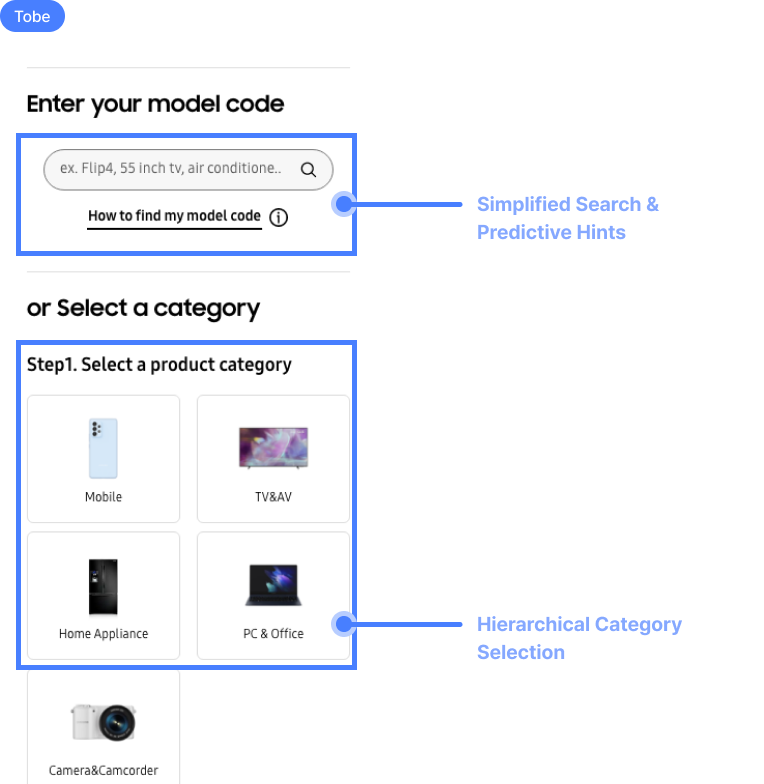
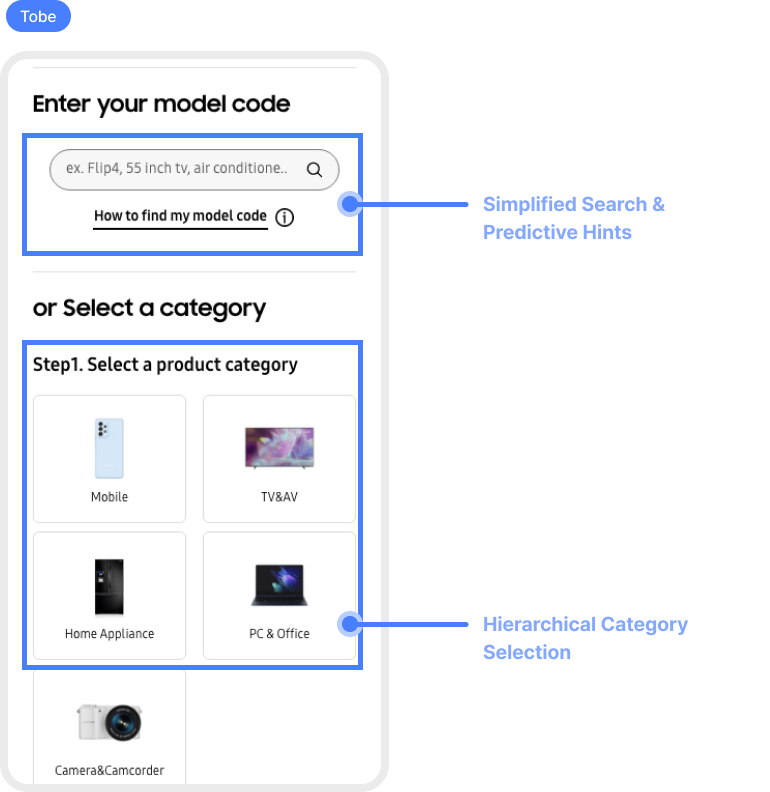
Update Samsung case study: refresh visuals and refine copy
- Replace before/after, pattern search, and to-be flow images with updated renders
- Add new AS-IS diagram
- Tighten case study copy and structure
- Add local-only files to gitignore

diff --git a/projects/samsung-engagement.html b/projects/samsung-engagement.html
@@ -431,15 +431,16 @@
 
     .cs-image-placeholder.has-image {
       border: none;
-      background-color: transparent;
-      aspect-ratio: auto;
+      background-color: var(--color-bg);
+      aspect-ratio: 16 / 9;
     }
 
     .cs-image-placeholder.has-image .cs-placeholder-img {
-      position: static;
-      height: auto;
+      position: absolute;
+      inset: 0;
       width: 100%;
-      object-fit: unset;
+      height: 100%;
+      object-fit: contain;
     }
 
     .cs-image-placeholder.has-image .cs-image-placeholder__label,
@@ -477,14 +478,26 @@
 
     .cs-image-compare {
       display: grid;
-      grid-template-columns: 1fr 1fr;
-      gap: var(--space-4);
+      grid-template-columns: 1fr;
+      gap: var(--space-6);
       margin-top: var(--space-5);
     }
 
     .cs-image-compare .cs-image-placeholder {
       margin-top: 0;
-      aspect-ratio: 4 / 5;
+      aspect-ratio: auto;
+    }
+
+    .cs-image-compare .cs-image-placeholder.has-image {
+      aspect-ratio: auto;
+      padding: 0;
+    }
+
+    .cs-image-compare .cs-image-placeholder.has-image .cs-placeholder-img {
+      position: static;
+      width: 100%;
+      height: auto;
+      object-fit: unset;
     }
 
     .cs-image-compare__tag {
@@ -626,31 +639,13 @@
           <p class="cs-quote__text">"Each one looks almost the same · I can't tell which is mine."</p>
           <span class="cs-quote__source">User research · Manuals &amp; Downloads</span>
         </div>
-        <div class="cs-image-row">
-          <div class="cs-image-placeholder">
-            <img class="cs-placeholder-img" src="../assets/images/samsung-engagement-asis_1.png"
-                 alt="Samsung.com Manuals page — before redesign (landing)"
-                 onload="this.parentElement.classList.add('has-image')"
-                 onerror="this.style.display='none'" />
-            <span class="cs-image-placeholder__label">AS-IS · 01</span>
-            <span class="cs-image-placeholder__sub">기존 Search Samsung Support 랜딩 화면</span>
-          </div>
-          <div class="cs-image-placeholder">
-            <img class="cs-placeholder-img" src="../assets/images/samsung-engagement-asis_2.png"
-                 alt="Samsung.com Manuals page — before redesign (category tabs)"
-                 onload="this.parentElement.classList.add('has-image')"
-                 onerror="this.style.display='none'" />
-            <span class="cs-image-placeholder__label">AS-IS · 02</span>
-            <span class="cs-image-placeholder__sub">Select a Model 화면 · 카테고리 탭 구조</span>
-          </div>
-          <div class="cs-image-placeholder">
-            <img class="cs-placeholder-img" src="../assets/images/samsung-engagement-asis_3.png"
-                 alt="Samsung.com Manuals page — before redesign (model list)"
-                 onload="this.parentElement.classList.add('has-image')"
-                 onerror="this.style.display='none'" />
-            <span class="cs-image-placeholder__label">AS-IS · 03</span>
-            <span class="cs-image-placeholder__sub">거의 동일한 모델명 리스트 · 구분 어려움</span>
-          </div>
+        <div class="cs-image-placeholder cs-image-placeholder--wide">
+          <img class="cs-placeholder-img" src="../assets/images/samsung-engagement-asis.png"
+               alt="Samsung.com Manuals page — before redesign"
+               onload="this.parentElement.classList.add('has-image')"
+               onerror="this.style.display='none'" />
+          <span class="cs-image-placeholder__label">AS-IS</span>
+          <span class="cs-image-placeholder__sub">기존 Search Samsung Support 화면</span>
         </div>
       </section>
 
@@ -741,14 +736,6 @@
                onerror="this.style.display='none'" />
           <span class="cs-image-placeholder__label">Pattern 01 · 02</span>
           <span class="cs-image-placeholder__sub">Simplified Search &amp; Predictive Hints · Hierarchical Category Selection</span>
-        </div>
-        <div class="cs-image-placeholder" style="margin-top: var(--space-3);">
-          <img class="cs-placeholder-img" src="../assets/images/samsung-engagement-pattern-verify.png"
-               alt="Pattern 03 — Quick-Verify UI with product imagery"
-               onload="this.parentElement.classList.add('has-image')"
-               onerror="this.style.display='none'" />
-          <span class="cs-image-placeholder__label">Pattern 03</span>
-          <span class="cs-image-placeholder__sub">Quick-Verify UI · 결정 순간의 시각 확인</span>
         </div>
 
         <div class="cs-image-placeholder cs-image-placeholder--wide">
